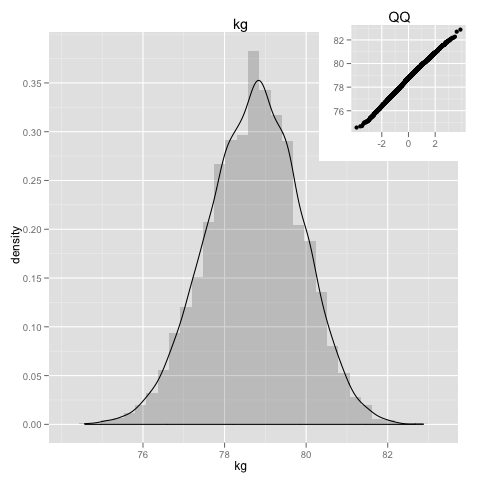
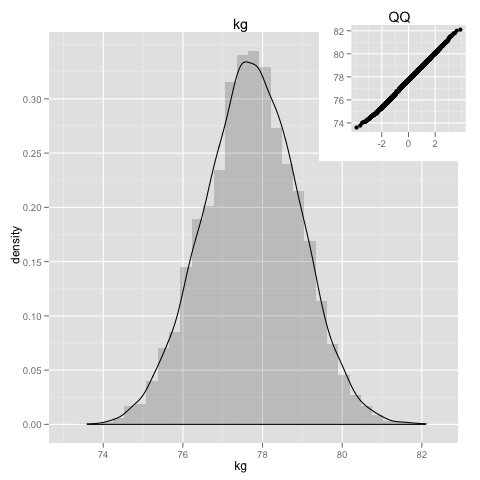
30

diff --git a/_posts/2011-02-05-weight-loss-predictor.html b/_posts/2011-02-05-weight-loss-predictor.html
@@ -22,8 +22,7 @@ categories:
 
 <p>
 Got for 2010 Xmas a very cool book called the "4 Hour Body"(thanks Jose Santos) written by Tim Ferriss who write a previous favorite of mine about productivity, the 4 hour work week.
-</p>
-<p>
+y
 Its an interesting book, because it has a scientific approach, it doesn't just say do this do that and you'll be healthy, it actually says: I(Tim Ferriss) have tried this, exactly with these steps, during this time, this is how i measured, these are the results i got and by looking at most up-to-date medical research this is the most likely explanation for these results&hellip; Notice the similar principles of AB testing.
 </p>
 <p>
@@ -45,7 +44,7 @@ Have been tracking my weight using google spreadsheets, so i can get the data in
 
 
 <pre class="src src-R"><span style="color: #b22222;"># </span><span style="color: #b22222;">load the data
-</span>mydata <span style="color: #008b8b;">&lt;-</span> read.csv(<span style="color: #8b2252;">"http://spreadsheets.google.com/pub?key=0AnypY27pPCJydEwzYWxYWG1CcEpPLVQySTRrWml4OEE&amp;hl=en_GB&amp;single=true&amp;gid=3&amp;output=csv"</span>, header = <span style="color: #228b22;">TRUE</span>)
+</span>mydata = read.csv(<span style="color: #8b2252;">"http://spreadsheets.google.com/pub?key=0AnypY27pPCJydEwzYWxYWG1CcEpPLVQySTRrWml4OEE&amp;hl=en_GB&amp;single=true&amp;gid=3&amp;output=csv"</span>, header = <span style="color: #228b22;">TRUE</span>)
 
 <span style="color: #b22222;"># </span><span style="color: #b22222;">Create a new column with the proper date format
 </span>mydata$timestamp = as.Date(mydata$timestamp, format=<span style="color: #8b2252;">'%d/%m/%Y'</span>)
@@ -71,9 +70,9 @@ Normality is not really a requirement for this simulation, monte carlo methods a
 <pre class="src src-R"><span style="color: #b22222;"># </span><span style="color: #b22222;">include ggplot2
 </span><span style="color: #008b8b;">library</span>(ggplot2)
 
-<span style="color: #0000ff;">gghist</span> <span style="color: #008b8b;">&lt;-</span> <span style="color: #7f007f;">function</span> (mydata, mycolname) {
-  pl <span style="color: #008b8b;">&lt;-</span> ggplot(data = mydata)
-  subvp <span style="color: #008b8b;">&lt;-</span> viewport(width=0.35, height=0.35, x=0.84, y=0.84)
+gghist = <span style="color: #7f007f;">function</span> (mydata, mycolname) {
+  pl = ggplot(data = mydata)
+  subvp = viewport(width=0.35, height=0.35, x=0.84, y=0.84)
 
   his = pl + 
         geom_histogram(aes_string(x=mycolname,y=<span style="color: #8b2252;">"..density.."</span>),alpha=0.2) + 
@@ -121,22 +120,22 @@ The idea for filling in missing days is; if we have only day1=81 and day3=80, th
 We can confirm(prove) that this calculated assumption is a good one, by later comparing the simulation on data with all days filled in against the same data with some removed days in the middle, and confirm that results are the same.
 </p>
 <p>
-So lets gets the every day weight(kg) and its change(delta):
+So lets get the weight(kg) change(delta), for every day:
 </p>
 
 
 
 <pre class="src src-R"><span style="color: #008b8b;">library</span>(zoo) <span style="color: #b22222;"># </span><span style="color: #b22222;">for the missing values interpolation
 </span>
-<span style="color: #0000ff;">fill.all.days</span> <span style="color: #008b8b;">&lt;-</span> <span style="color: #7f007f;">function</span> (mydata, timecolname, valuecolname) {
+fill.all.days = <span style="color: #7f007f;">function</span> (mydata, timecolname, valuecolname) {
   dtrange = range(mydata[,timecolname])
   <span style="color: #b22222;"># </span><span style="color: #b22222;">create a data frame with every single day
 </span>  alldays = data.frame(tmp=seq(as.Date(dtrange[1]), as.Date(dtrange[2]), <span style="color: #8b2252;">"days"</span>))
-  colnames(alldays) <span style="color: #008b8b;">&lt;-</span> c(timecolname) <span style="color: #b22222;"># </span><span style="color: #b22222;">rename tmp to proper timecolname
+  colnames(alldays) = c(timecolname) <span style="color: #b22222;"># </span><span style="color: #b22222;">rename tmp to proper timecolname
 </span>  <span style="color: #b22222;"># </span><span style="color: #b22222;">add the existing values
 </span>  alldays = merge(alldays, mydata, by=timecolname, all=<span style="color: #228b22;">TRUE</span>)
   <span style="color: #b22222;"># </span><span style="color: #b22222;">fill in the missing ones
-</span>  alldays[,valuecolname] <span style="color: #008b8b;">&lt;-</span> na.approx(alldays[,valuecolname])
+</span>  alldays[,valuecolname] = na.approx(alldays[,valuecolname])
   <span style="color: #7f007f;">return</span>(alldays)
 }
 
@@ -148,10 +147,12 @@ lastweight = tail(dietdata$kg, n=1)
 </span>dietalldays = fill.all.days(dietdata, <span style="color: #8b2252;">"timestamp"</span>, <span style="color: #8b2252;">"kg"</span>)
 
 <span style="color: #b22222;"># </span><span style="color: #b22222;">weight difference day by day
-</span>kgdelta <span style="color: #008b8b;">&lt;-</span> diff(dietalldays$kg)
+</span>kgdelta = diff(dietalldays$kg)
 
-dietalldays$delta <span style="color: #008b8b;">&lt;-</span> c(0, kgdelta)
-dietalldays
+dietalldays$delta = c(0, kgdelta)
+
+<span style="color: #b22222;"># </span><span style="color: #b22222;">print only the 10 last values
+</span>tail(dietalldays, 10)
 </pre>
 
 
@@ -160,49 +161,33 @@ dietalldays
 
 
 <pre class="example">
-    timestamp     kg  delta
-1  2011-01-17 84.000  0.000
-2  2011-01-18 83.100 -0.900
-3  2011-01-19 82.975 -0.125
-4  2011-01-20 82.850 -0.125
-5  2011-01-21 82.725 -0.125
-6  2011-01-22 82.600 -0.125
-7  2011-01-23 82.500 -0.100
-8  2011-01-24 82.900  0.400
-9  2011-01-25 81.900 -1.000
-10 2011-01-26 81.400 -0.500
-11 2011-01-27 81.300 -0.100
-12 2011-01-28 81.100 -0.200
-13 2011-01-29 81.000 -0.100
-14 2011-01-30 80.200 -0.800
-15 2011-01-31 79.400 -0.800
-16 2011-02-01 79.900  0.500
-17 2011-02-02 79.800 -0.100
-18 2011-02-03 79.500 -0.300
-19 2011-02-04 80.000  0.500
-20 2011-02-05 80.200  0.200
-21 2011-02-06 80.700  0.500
-22 2011-02-07 80.500 -0.200
-23 2011-02-08 80.000 -0.500
+    timestamp   kg delta
+22 2011-02-07 80.5  -0.2
+23 2011-02-08 80.0  -0.5
+24 2011-02-09 79.9  -0.1
+25 2011-02-10 79.5  -0.4
+26 2011-02-11 79.6   0.1
+27 2011-02-12 79.2  -0.4
+28 2011-02-13 79.9   0.7
+29 2011-02-14 80.1   0.2
+30 2011-02-15 79.1  -1.0
+31 2011-02-16 78.9  -0.2
 </pre>
 
 
 
-<p>
-The big weight loss on rows 9,10,11 was because of a nasty stomach virus, so when getting back to normality i got most of that weight back.
-</p>
 
 </div>
 
 <div class="outline-3" id="outline-container-2_1">
-<h3 id="sec-2_1">So, what is going to be my weight in a week? </h3>
+<h3 id="sec-2_1">So what is going to be my weight in a week? </h3>
 <div class="outline-text-3" id="text-2_1">
 
 
 
 
 
-<pre class="src src-R"><span style="color: #0000ff;">predict.weight.in.days</span> <span style="color: #008b8b;">&lt;-</span> <span style="color: #7f007f;">function</span>(days, inicialweight, deltavector) {
+<pre class="src src-R">predict.weight.in.days = <span style="color: #7f007f;">function</span>(days, inicialweight, deltavector) {
   weight = inicialweight
   <span style="color: #7f007f;">for</span> (i <span style="color: #7f007f;">in</span> 1:days) {
     weight = weight + sample(deltavector, 1, replace=<span style="color: #228b22;">TRUE</span>)
@@ -223,7 +208,7 @@ summary(mcWeightWeek)
 <pre class="example">
 
    Min. 1st Qu.  Median    Mean 3rd Qu.    Max. 
-  74.57   77.95   78.77   78.72   79.52   82.88
+  73.60   76.90   77.70   77.71   78.53   82.10
 </pre>
 
 
@@ -247,14 +232,14 @@ Another good thing about monte carlo methods is that they give a distribution of
 </div>
 
 <div class="outline-3" id="outline-container-2_2">
-<h3 id="sec-2_2">And, when am i getting to 75kg? </h3>
+<h3 id="sec-2_2">And when am i getting to 75kg? </h3>
 <div class="outline-text-3" id="text-2_2">
 
 
 
 
 
-<pre class="src src-R"><span style="color: #0000ff;">days.to.weight</span> <span style="color: #008b8b;">&lt;-</span> <span style="color: #7f007f;">function</span>(weight, inicialweight, deltavector) {
+<pre class="src src-R">days.to.weight = <span style="color: #7f007f;">function</span>(weight, inicialweight, deltavector) {
   target = inicialweight
   days = 0
   <span style="color: #7f007f;">while</span> (target &gt; weight) {
@@ -279,17 +264,30 @@ summary(mcDays75)
 <pre class="example">
 
    Min. 1st Qu.  Median    Mean 3rd Qu.    Max. 
-   6.00   20.00   27.00   29.05   35.00  116.00
+   4.00   15.00   22.00   24.67   31.00  161.00
 </pre>
 
 
 <p>
-And the distribution:
+And the cumulative distribution:
 </p>
 
 
 
-<pre class="src src-R">gghist(data.frame(days=mcDays75), <span style="color: #8b2252;">"days"</span>)
+<pre class="src src-R"><span style="color: #b22222;">#</span><span style="color: #b22222;">Add dates to it, from today's date + x days
+</span>days75 = sort(Sys.Date() + mcDays75)
+<span style="color: #b22222;"># </span><span style="color: #b22222;">get the ecdf values into a dataframe
+</span>days75.ecdf = summarize(data.frame(days=days75), days = unique(days), 
+                        ecdf = ecdf(days)(unique(days)))
+<span style="color: #b22222;"># </span><span style="color: #b22222;">the point where its 85% sure i'll reach goal
+</span>prob85 = head(days75.ecdf[days75.ecdf$ecdf&gt;0.85,],1)
+<span style="color: #b22222;"># </span><span style="color: #b22222;">plot
+</span>ggplot(days75.ecdf, aes(days, ecdf)) + geom_step() +
+       ylab(<span style="color: #8b2252;">"probability"</span>) + 
+       geom_point(aes(x = prob85$days, y = prob85$ecdf)) +
+       geom_text(aes(x = prob85$days, y = prob85$ecdf, 
+                    label = paste(<span style="color: #8b2252;">"85% sure will reach goal on"</span>, prob85$days)), 
+                     hjust=-0.04)
 </pre>
 
 
@@ -299,13 +297,23 @@ And the distribution:
 <img src="http://al3xandr3.github.com/img/w-loss-75.png" alt="http://al3xandr3.github.com/img/w-loss-75.png" />
 </p>
 <p>
-Interesting, its more a Poison distribution then a Normal one.
-</p>
-<p>
 Also note that, weight loss is faster at the beginning of a diet, it tends to slow down over time, so to keep the predictions valid we need to continue record the weight and re-run the predictions from time to time.
 </p>
 <p>
 But as you see the slow carb diet seems to work, even without exercise. Tim's book is great, focusing on the smallest things possible for the bigger results(=efficiency).
+</p>
+</div>
+
+</div>
+
+<div class="outline-3" id="outline-container-2_3">
+<h3 id="sec-2_3">References </h3>
+<div class="outline-text-3" id="text-2_3">
+
+
+<p>
+Hard drive occupation prediction with R: 
+<a href="http://lpenz.github.com/articles/df0pred-1/index.html">part 1</a> and <a href="http://lpenz.github.com/articles/df0pred-2/index.html">part 2</a>, and thanks to Leandro Penz on the feedback.
 </p></div>
 </div>
 </div>
